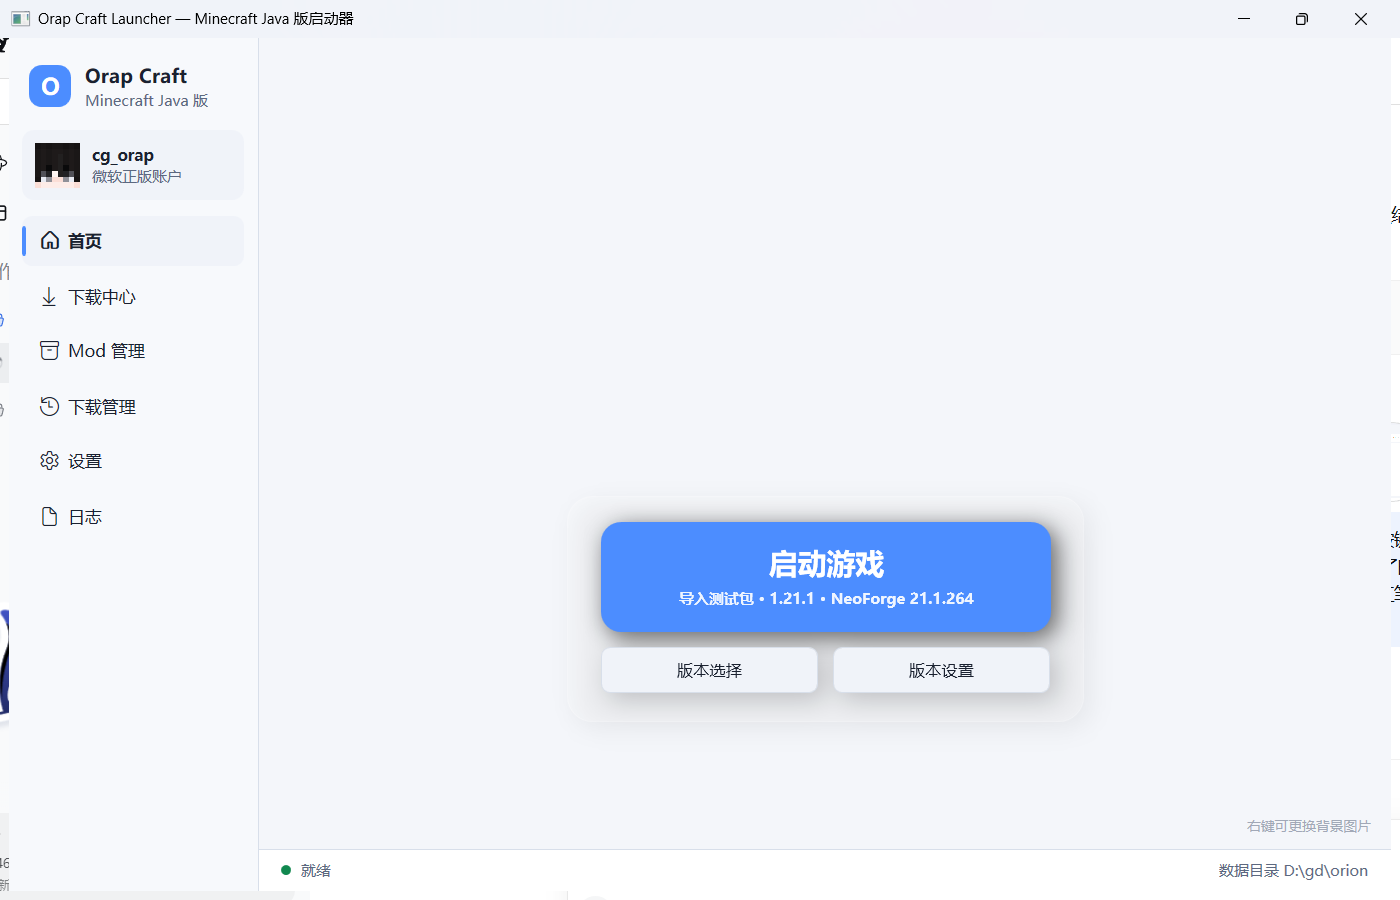
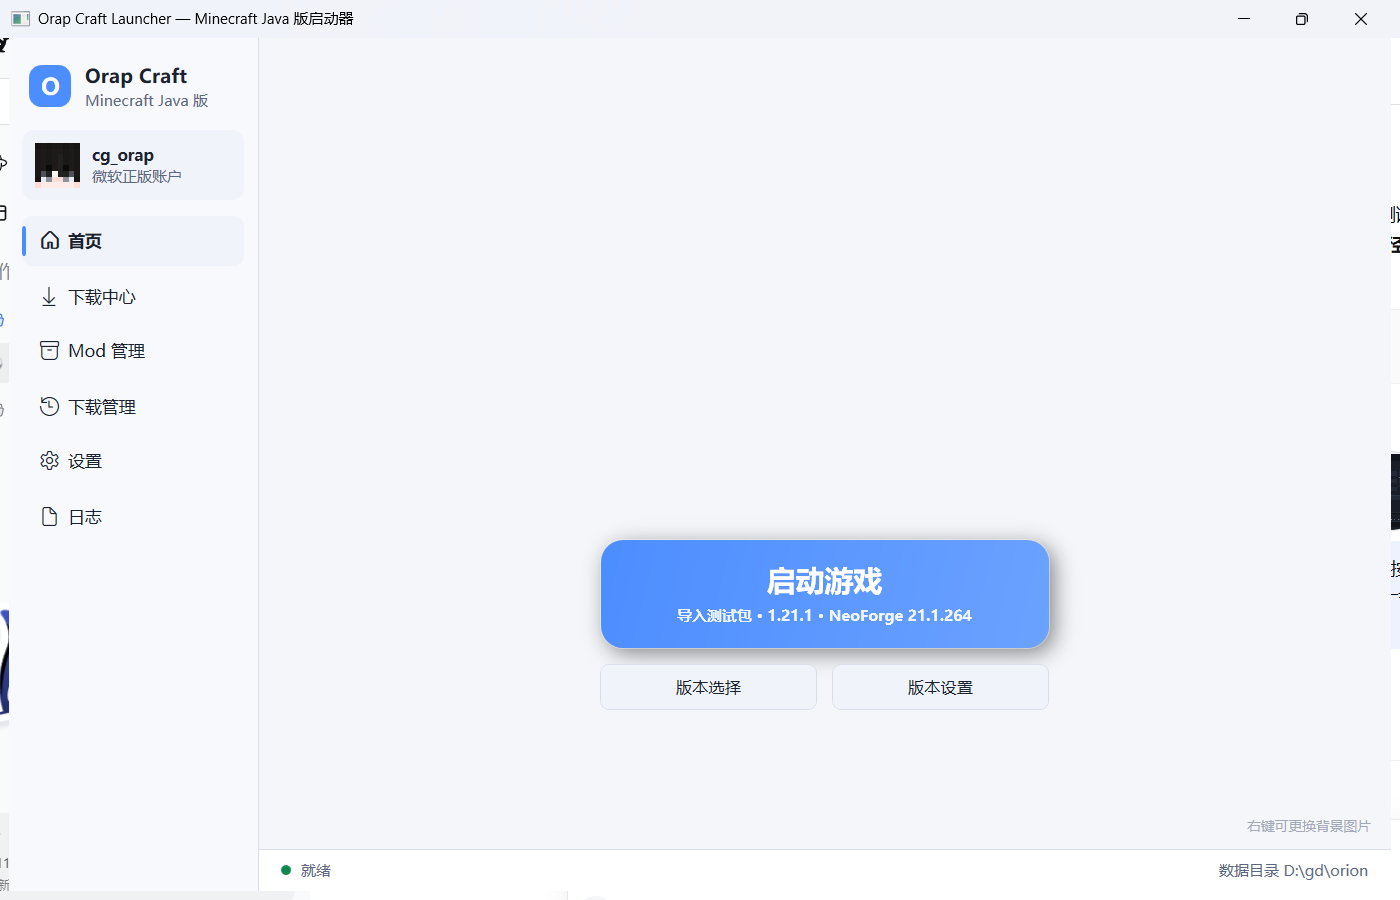
Back button on version settings, floating toast on home, gradient launch button, 7 palettes
- 版本管理 (opened from the home 版本设置 button) now starts with a 返回首页 button.
- The glass card around the home launch block is gone; launch hints are shown as a floating
  toast at the bottom of the page that clears itself after five seconds.
- The launch button uses an accent gradient with a larger radius and a light inner border,
  closer to the reference launcher's call to action.
- Two more colour schemes (暖橙 / 翡翠) were added, so Settings offers seven accents.

Verified: build + 136 tests, screenshot of the cleaned-up home page.

Changed region(s): [[0.3993, 0.56, 0.7679, 0.8089], [0.9829, 0.4978, 1.0, 0.6533], [0.9829, 0.2178, 1.0, 0.28]]

diff --git a/src/Orion.App/Views/HomeView.xaml b/src/Orion.App/Views/HomeView.xaml
@@ -18,7 +18,13 @@
             <Setter Property="Template">
                 <Setter.Value>
                     <ControlTemplate TargetType="Button">
-                        <Border x:Name="Shell" CornerRadius="16" Background="{DynamicResource AccentBrush}">
+                                                <Border x:Name="Shell" CornerRadius="18" BorderThickness="1" BorderBrush="#33FFFFFF">
+                            <Border.Background>
+                                <LinearGradientBrush StartPoint="0,0" EndPoint="1,1">
+                                    <GradientStop Color="{DynamicResource AccentColor}" Offset="0" />
+                                    <GradientStop Color="{DynamicResource AccentHoverColor}" Offset="1" />
+                                </LinearGradientBrush>
+                            </Border.Background>
                             <Border.Effect>
                                 <DropShadowEffect BlurRadius="26" ShadowDepth="6" Opacity="0.45" Color="#000000" />
                             </Border.Effect>
@@ -27,11 +33,9 @@
                         </Border>
                         <ControlTemplate.Triggers>
                             <Trigger Property="IsMouseOver" Value="True">
-                                <Setter TargetName="Shell" Property="Background" Value="{DynamicResource AccentHoverBrush}" />
+                                <Setter TargetName="Shell" Property="BorderBrush" Value="#66FFFFFF" />
                             </Trigger>
-                            <Trigger Property="IsPressed" Value="True">
-                                <Setter TargetName="Shell" Property="Background" Value="{DynamicResource AccentPressedBrush}" />
-                            </Trigger>
+
                             <Trigger Property="IsEnabled" Value="False">
                                 <Setter TargetName="Shell" Property="Background" Value="{DynamicResource MutedTextBrush}" />
                                 <Setter TargetName="Shell" Property="Opacity" Value="0.75" />
@@ -61,12 +65,7 @@
                 <RowDefinition Height="*" />
             </Grid.RowDefinitions>
 
-            <Border Grid.Row="1" HorizontalAlignment="Center" Margin="24,0,24,0" CornerRadius="20"
-                    Background="#33FFFFFF" BorderBrush="#59FFFFFF" BorderThickness="1" Padding="26,20,26,22">
-                <Border.Effect>
-                    <DropShadowEffect BlurRadius="30" ShadowDepth="8" Opacity="0.28" Color="#000000" />
-                </Border.Effect>
-                <StackPanel>
+            <StackPanel Grid.Row="1" HorizontalAlignment="Center" Margin="24,0,24,0">
             <!-- PCL-style launch button: the action in large text, the target version underneath -->
             <Button Style="{StaticResource LaunchHeroButton}" Width="360" Height="88"
                     Command="{Binding LaunchCommand}"
@@ -102,18 +101,24 @@
                         ToolTip="在「版本管理」中调整这个版本的内存、Java 与窗口设置" />
             </Grid>
 
-            <!-- progress / result of the launch only -->
-            <TextBlock Text="{Binding LaunchStatus}" HorizontalAlignment="Center" TextAlignment="Center"
-                       MaxWidth="560" TextWrapping="Wrap" Margin="0,16,0,0" FontSize="12"
-                       Foreground="{DynamicResource MutedTextBrush}"
-                       AutomationProperties.AutomationId="LaunchStatusText"
-                       Visibility="{Binding LaunchStatus, Converter={StaticResource StringToVisibility}}" />
+
 
                 <StackPanel Orientation="Horizontal" HorizontalAlignment="Center" Margin="0,10,0,0"
                             Visibility="{Binding IsLaunching, Converter={StaticResource BoolToVisibility}}">
                     <Button Content="结束游戏" Style="{StaticResource GhostButton}" Command="{Binding StopCommand}" />
                 </StackPanel>
-                </StackPanel>
+            </StackPanel>
+
+            <!-- floating toast: launch hints appear here and fade away on their own -->
+            <Border x:Name="Toast" Grid.Row="2" HorizontalAlignment="Center" VerticalAlignment="Bottom"
+                    Margin="0,0,0,26" CornerRadius="10" Padding="18,10"
+                    Background="#E6111720" BorderBrush="#33FFFFFF" BorderThickness="1"
+                    Visibility="{Binding HasToast, Converter={StaticResource BoolToVisibility}}">
+                <Border.Effect>
+                    <DropShadowEffect BlurRadius="18" ShadowDepth="4" Opacity="0.35" Color="#000000" />
+                </Border.Effect>
+                <TextBlock Text="{Binding ToastText}" Foreground="#F2FFFFFF" FontSize="12.5"
+                           AutomationProperties.AutomationId="LaunchToast" />
             </Border>
         </Grid>
 

diff --git a/src/Orion.App/Themes/Accent-Emerald.xaml b/src/Orion.App/Themes/Accent-Emerald.xaml
@@ -1,0 +1,15 @@
+<ResourceDictionary xmlns="http://schemas.microsoft.com/winfx/2006/xaml/presentation"
+                    xmlns:x="http://schemas.microsoft.com/winfx/2006/xaml">
+
+    <!-- Accent colour schemes. Merged *after* Dark.xaml / Light.xaml so these keys win.
+         Theme-independent: the same accent works on both palettes. -->
+
+    <Color x:Key="AccentColor">#FF10B981</Color>
+    <Color x:Key="AccentHoverColor">#FF34D399</Color>
+    <Color x:Key="AccentPressedColor">#FF059669</Color>
+
+    <SolidColorBrush x:Key="AccentBrush" Color="{StaticResource AccentColor}" />
+    <SolidColorBrush x:Key="AccentHoverBrush" Color="{StaticResource AccentHoverColor}" />
+    <SolidColorBrush x:Key="AccentPressedBrush" Color="{StaticResource AccentPressedColor}" />
+
+</ResourceDictionary>

diff --git a/src/Orion.App/Themes/Accent-Orange.xaml b/src/Orion.App/Themes/Accent-Orange.xaml
@@ -1,0 +1,15 @@
+<ResourceDictionary xmlns="http://schemas.microsoft.com/winfx/2006/xaml/presentation"
+                    xmlns:x="http://schemas.microsoft.com/winfx/2006/xaml">
+
+    <!-- Accent colour schemes. Merged *after* Dark.xaml / Light.xaml so these keys win.
+         Theme-independent: the same accent works on both palettes. -->
+
+    <Color x:Key="AccentColor">#FFF97316</Color>
+    <Color x:Key="AccentHoverColor">#FFFB923C</Color>
+    <Color x:Key="AccentPressedColor">#FFEA580C</Color>
+
+    <SolidColorBrush x:Key="AccentBrush" Color="{StaticResource AccentColor}" />
+    <SolidColorBrush x:Key="AccentHoverBrush" Color="{StaticResource AccentHoverColor}" />
+    <SolidColorBrush x:Key="AccentPressedBrush" Color="{StaticResource AccentPressedColor}" />
+
+</ResourceDictionary>

diff --git a/src/Orion.App/Views/InstancesView.xaml b/src/Orion.App/Views/InstancesView.xaml
@@ -21,6 +21,9 @@
             </Grid.RowDefinitions>
 
             <StackPanel Grid.Row="0">
+                <Button Content="← 返回首页" Style="{StaticResource GhostButton}" HorizontalAlignment="Left"
+                        Margin="0,0,0,10" Command="{Binding DataContext.NavigateCommand, RelativeSource={RelativeSource AncestorType=Window}}"
+                        CommandParameter="home" AutomationProperties.AutomationId="InstancesBackHome" />
                 <TextBlock Text="版本管理" Style="{StaticResource TitleText}" />
                 <TextBlock Text="每个版本拥有独立的游戏目录（存档、Mod、配置互不影响）。"
                            Style="{StaticResource CaptionText}" TextWrapping="Wrap" Margin="0,6,0,12" />

diff --git a/src/Orion.App/ViewModels/HomeViewModel.cs b/src/Orion.App/ViewModels/HomeViewModel.cs
@@ -32,6 +32,12 @@ public sealed class HomeViewModel : ObservableObject
     private string _launchStatus = "";
     private string _javaStatus = "";
     private string _instanceStatus = "";
+    private readonly System.Windows.Threading.DispatcherTimer _toastTimer = new()
+    {
+        Interval = TimeSpan.FromSeconds(5),
+    };
+
+    private string _toastText = "";
     private ImageSource? _backgroundImage;
     private string? _backgroundImagePath;
 
@@ -47,7 +53,33 @@ public sealed class HomeViewModel : ObservableObject
         OpenVersionPickerCommand = new RelayCommand(() => _main.Navigate("version-picker"));
         OpenVersionSettingsCommand = new RelayCommand(() => _main.Navigate("instances"));   // sub-page, not a rail entry
 
+        _toastTimer.Tick += (_, _) =>
+        {
+            _toastTimer.Stop();
+            ToastText = "";
+        };
+
         ReloadBackground();
+    }
+
+    /// <summary>Transient launcher message shown as a floating toast, cleared automatically.</summary>
+    public string ToastText
+    {
+        get => _toastText;
+        private set
+        {
+            if (!SetProperty(ref _toastText, value)) return;
+            OnPropertyChanged(nameof(HasToast));
+        }
+    }
+
+    public bool HasToast => _toastText.Length > 0;
+
+    private void ShowToast(string message)
+    {
+        ToastText = message;
+        _toastTimer.Stop();
+        _toastTimer.Start();
     }
 
     public ICommand LaunchCommand { get; }
@@ -110,7 +142,13 @@ public sealed class HomeViewModel : ObservableObject
     public string LaunchStatus
     {
         get => _launchStatus;
-        set => SetProperty(ref _launchStatus, value);
+        set
+        {
+            if (!SetProperty(ref _launchStatus, value)) return;
+
+            // Short hints become a toast; long progress text stays visible while it is meaningful.
+            if (!string.IsNullOrWhiteSpace(value) && value.Length <= 120) ShowToast(value);
+        }
     }
 
     public string JavaStatus

diff --git a/src/Orion.App/App.xaml.cs b/src/Orion.App/App.xaml.cs
@@ -132,7 +132,7 @@ public partial class App : Application
 
         var dictionaries = app.Resources.MergedDictionaries;
         var name = string.IsNullOrWhiteSpace(accent) ? "Blue" : accent.Trim();
-        var known = new[] { "Blue", "Violet", "Teal", "Amber", "Rose" };
+        var known = new[] { "Blue", "Violet", "Teal", "Amber", "Rose", "Orange", "Emerald" };
         if (!known.Contains(name, StringComparer.OrdinalIgnoreCase)) name = "Blue";
 
         var existing = dictionaries.FirstOrDefault(d =>

diff --git a/src/Orion.App/ViewModels/SettingsViewModel.cs b/src/Orion.App/ViewModels/SettingsViewModel.cs
@@ -52,6 +52,8 @@ public sealed class SettingsViewModel : ObservableObject
         new("Teal", "青绿", "#FF14B8A6"),
         new("Amber", "琥珀", "#FFF59E0B"),
         new("Rose", "玫瑰", "#FFF43F5E"),
+        new("Orange", "暖橙", "#FFF97316"),
+        new("Emerald", "翡翠", "#FF10B981"),
     ];
     private bool _forceUtf8Console = true;
     private string _microsoftClientId = "";
